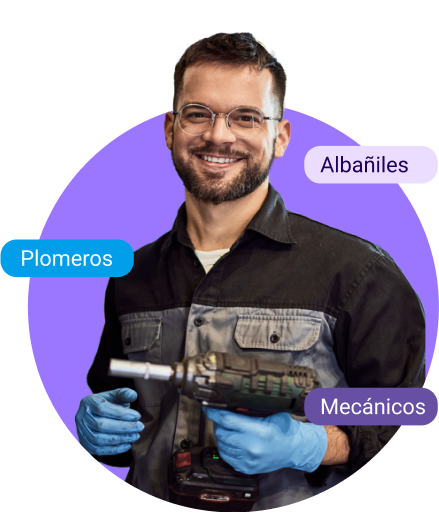
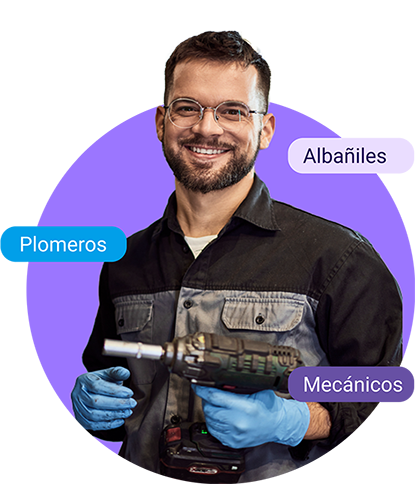
WIP KAN-102 Functional and UI search Form

diff --git a/src/features/home/components/pages/RequestForm.tsx b/src/features/home/components/pages/RequestForm.tsx
@@ -1,0 +1,131 @@
+import React, { useState } from 'react';
+import {
+  Box,
+  Button,
+  TextField,
+  MenuItem,
+  Typography,
+  Divider,
+} from '@mui/material';
+import { useTranslation } from 'react-i18next';
+import MainImage from '../../../../assets/images/intro_sliders/intro_1.png';
+
+const RequestForm = () => {
+  const { t } = useTranslation();
+
+  // Estado local para manejar el formulario
+  const [formData, setFormData] = useState({
+    category: '',
+    title: '',
+    taskDescription: '',
+    location: '',
+  });
+
+  // Función para manejar los cambios en el formulario
+  const handleChange = (e: React.ChangeEvent<HTMLInputElement>) => {
+    setFormData({
+      ...formData,
+      [e.target.name]: e.target.value,
+    });
+  };
+
+  // Lista de categorías (se deben obtener de la API)
+  const categories = [
+    { value: 'plumber', label: t('categories.plumber') },
+    { value: 'mechanic', label: t('categories.mechanic') },
+    { value: 'electrician', label: t('categories.electrician') },
+    { value: 'mason', label: t('categories.mason') },
+  ];
+
+  return (
+    <Box
+      sx={{
+        display: 'flex',
+        alignItems: 'center',
+        justifyContent: 'space-between',
+        p: 4,
+        padding: '20px 0px 100px',
+      }}
+    >
+      {/* Sección del formulario */}
+      <Box sx={{ width: '40%' }}>
+        <Typography variant="h3" sx={{ fontWeight: 'bold', mb: 2 }}>
+          {t('form.title')}
+        </Typography>
+        <Typography variant="body1" sx={{ mb: 4 }}>
+          {t('form.subtitle')}
+        </Typography>
+
+        {/* Categoría */}
+        <TextField
+          select
+          label={t('form.category')}
+          name="category"
+          value={formData.category}
+          onChange={handleChange}
+          fullWidth
+          sx={{ mb: 3 }}
+        >
+          {categories.map((option) => (
+            <MenuItem key={option.value} value={option.value}>
+              {option.label}
+            </MenuItem>
+          ))}
+        </TextField>
+
+        {/* Título */}
+        <TextField
+          label={t('form.titlePlaceholder')}
+          name="title"
+          value={formData.title}
+          onChange={handleChange}
+          fullWidth
+          sx={{ mb: 3 }}
+        />
+
+        {/* Descripción */}
+        <TextField
+          label={t('form.descriptionPlaceholder')}
+          name="taskDescription"
+          value={formData.taskDescription}
+          onChange={handleChange}
+          fullWidth
+          sx={{ mb: 3 }}
+        />
+
+        {/* Ubicación */}
+        <TextField
+          label={t('form.locationPlaceholder')}
+          name="location"
+          value={formData.location}
+          onChange={handleChange}
+          fullWidth
+          sx={{ mb: 3 }}
+        />
+
+        <Button
+          variant="contained"
+          color="primary"
+          sx={{
+            backgroundColor: '#5D50C6',
+            textTransform: 'none',
+            fontWeight: 'bold',
+            borderRadius: '8px',
+          }}
+        >
+          {t('form.submit')}
+        </Button>
+      </Box>
+
+      <Box sx={{ position: 'relative', width: '45%' }}>
+        <img
+          src={MainImage}
+          alt={t('form.professionals')}
+          style={{ width: '85%' }}
+        />
+      </Box>
+    </Box>
+  );
+};
+
+export default RequestForm;

diff --git a/src/features/home/components/pages/Categories.tsx b/src/features/home/components/pages/Categories.tsx
@@ -8,7 +8,7 @@ import {
   CardContent,
 } from '@mui/material';
 import { useTranslation } from 'react-i18next';
-import BuildIcon from '@mui/icons-material/Build'; // Ejemplo de icono
+import BuildIcon from '@mui/icons-material/Build';
 
 const HighlightedCategories = () => {
   const { t } = useTranslation();
@@ -59,7 +59,7 @@ const HighlightedCategories = () => {
                 borderRadius: '32px',
                 padding: '18px',
                 boxShadow: 'none',
-                width: '175px', // Ajusta el ancho según tus necesidades
+                width: '150px',
               }}
             >
               <CardContent>

diff --git a/src/features/home/components/pages/HomePage.tsx b/src/features/home/components/pages/HomePage.tsx
@@ -3,6 +3,7 @@ import { TextAtom } from '../../../../components/atoms';
 import ServicesCard from '../../../../components/atoms/ServicesCard';
 import { Box, Grid2 } from '@mui/material';
 import Categories from '../../../home/components/pages/Categories';
+import RequestForm from '../../../home/components/pages/RequestForm';
 import Footer from '../../../../components/organisms/Footer';
 
 
@@ -69,6 +70,7 @@ export const HomePage: React.FC = () => {
         Home Page
       </TextAtom>
       <Categories />
+      <RequestForm />
       <Box sx={{ position: 'relative', padding: 4 }}>
         <TextAtom
           variant="title"
